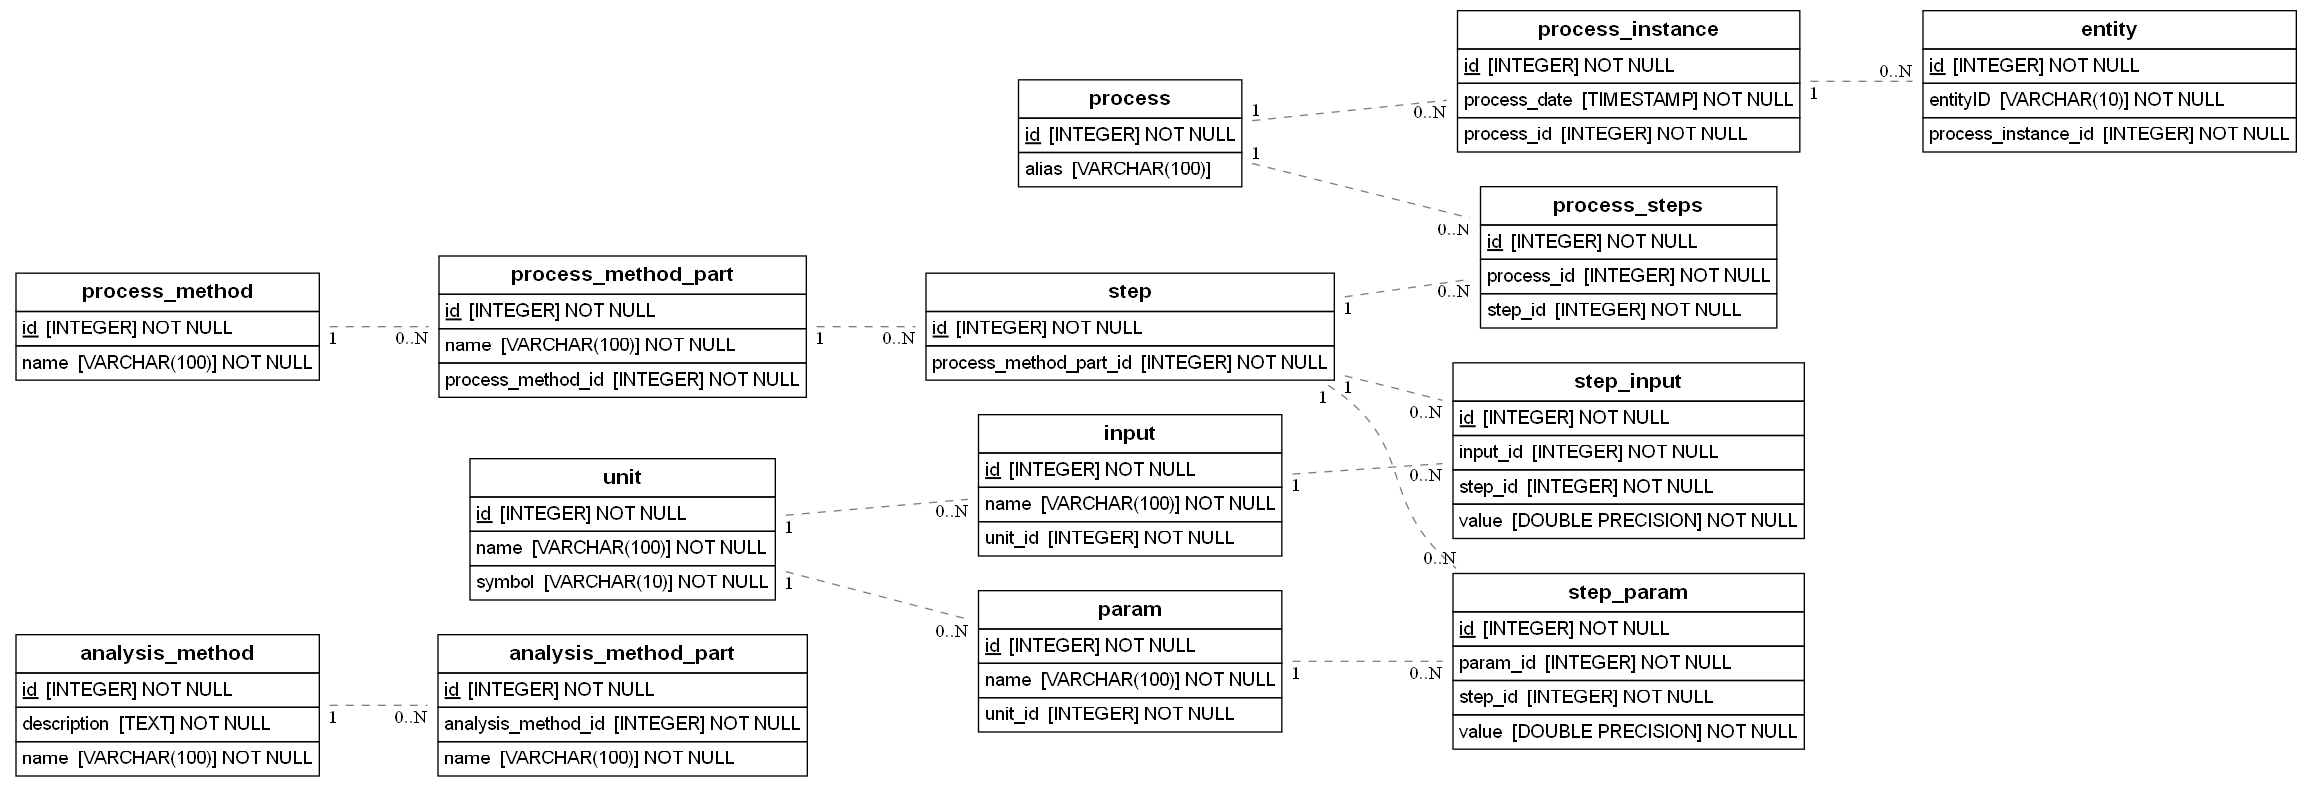
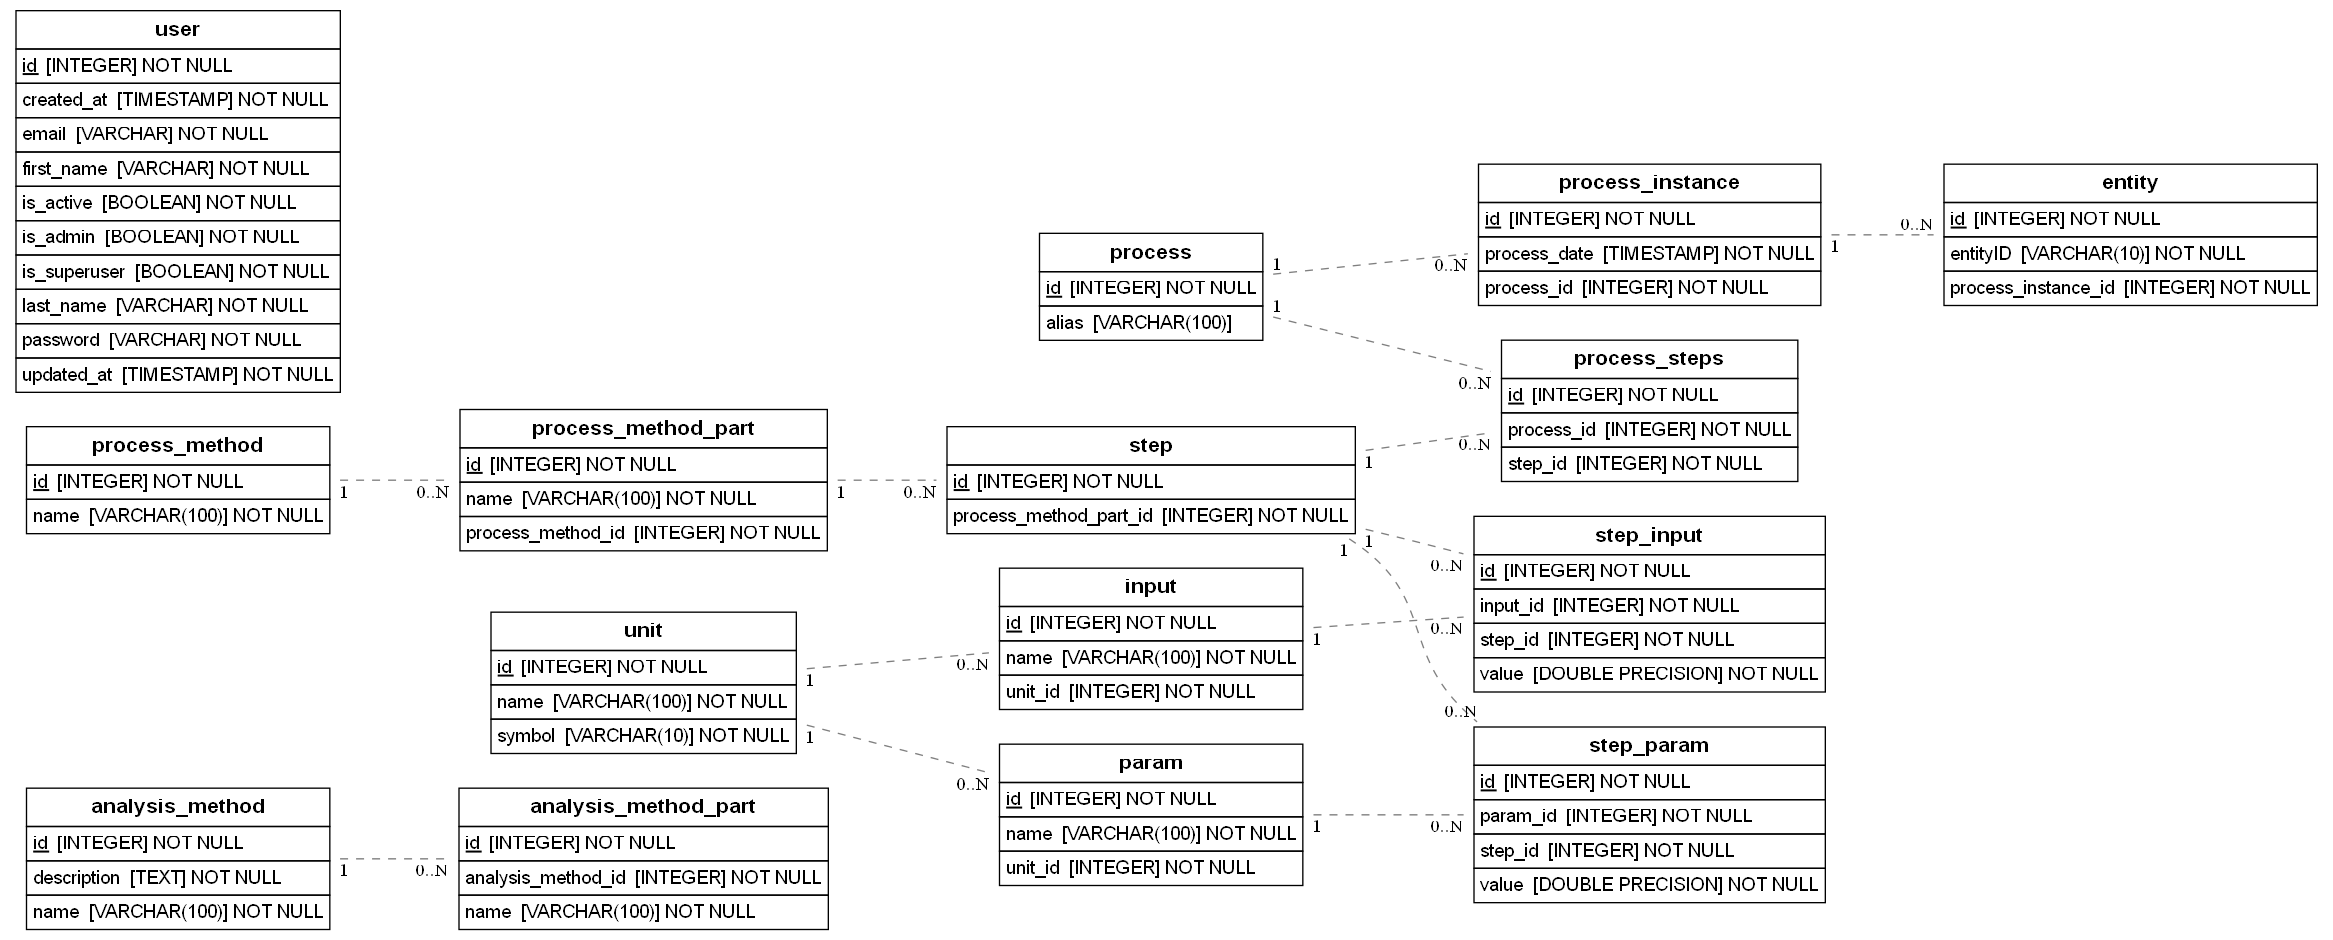
added User registration

diff --git a/process_navigator/static/styles.css b/process_navigator/static/styles.css
@@ -56,7 +56,7 @@ body {
   background-color: var(--ctp-mocha-base) !important;
   font-size: var(--font-size) !important;
   font-weight: var(--regular) !important;
-  color: var(--light) !important;
+  color: var(--ctp-mocha-text) !important;
   display: flex;
   flex-direction: column;
   height: 100vh;
@@ -90,7 +90,8 @@ nav a:hover {
   display: flex;
   flex-direction: row;
   justify-content: space-around;
-  height: 80%;
+
+
 
 }
 
@@ -101,19 +102,76 @@ nav a:hover {
   border-radius: 10px;
 
   /*form box*/
-  margin: 30px 60px 30px 60px;
+  margin: 30px 45px 30px 45px;
   padding: 20px;
   background-color: var(--ctp-mocha-crust);
   /*height: 80%;*/
-  width: 33%;
-
-
-  /*text stuff*/
 
 }
 
+
+
+form h1 {
+  color: var(--ctp-mocha-green);
+}
+
+fieldset {
+  display: flex;
+  flex-direction: row;
+  justify-content: space-evenly;
+  border: none;
+}
+
+fieldset label {
+  margin-right: 10px;
+  margin-left: 0px;
+}
+
+
+fieldset input {
+  margin-right: 10px;
+  margin-left: 10px;
+}
+
+
+
+fieldset #submit {
+  margin-top: 10px;
+  margin-bottom: 10px;
+}
+
+fieldset #submit:hover {
+  cursor: pointer;
+}
+
+.add_button {
+  color: var(--ctp-mocha-subtext1);
+  border-width: 8px;
+  border-radius: 10px;
+  border-color: var(--ctp-mocha-green);
+  background-color: var(--ctp-mocha-mantle);
+  padding: 5px 10px 5px 10px;
+
+  font-size: 20px;
+}
+
+.message-box {
+  border-radius: 10px;
+  border-style: solid;
+  background-color: var(--ctp-mocha-surface1);
+}
+
+.success-message {
+  margin: 10px;
+  color: var(--ctp-mocha-green);
+}
+
+.error-message {
+  margin: 10px;
+  color: var(--ctp-mocha-red);
+}
+
 .text_link {
-  color: var(--ctp-mocha-sky);
+  color: var(--ctp-mocha-blue);
   text-decoration: none;
-  font-size: var(--font-size);
 }

diff --git a/process_navigator/templates/home/register.html b/process_navigator/templates/home/register.html
@@ -1,0 +1,33 @@
+{% extends 'base/main.html' %}
+
+{% block form_1 %}
+<div class="form-container">
+<h1>Registration</h1>
+<p>
+  Welcome to the registration page. Please fill in the form to register for an account. This will use your email as a
+  unique identifier.
+</p>
+</div>
+{% endblock %}
+
+{% block form_2 %}
+<div class="form-container">
+<h1>Registration Form</h1>
+{% from "helpers/_formhelpers.html" import render_field %}
+{% from "helpers/_formhelpers.html" import render_form_button %}
+<form method="post">
+    {{ render_field(form.first_name)}}
+    {{ render_field(form.last_name)}}
+    {{ render_field(form.email) }}
+    {{ render_field(form.password) }}
+    {{ render_form_button(form.submit, class="add_button") }}  
+</form>
+</div>
+{% endblock %}
+
+{% block form_3 %}
+{% from "helpers/_messagehelpers.html" import display_messages %}
+{{ display_messages() }}
+{% endblock %}
+
+

diff --git a/process_navigator/templates/home/index.html b/process_navigator/templates/home/index.html
@@ -1,21 +1,27 @@
 {% extends 'base/main.html' %}
 
 {% block form_1 %}
+<div class="form-container">
 <h1>Process Navigator</h1>
 <p>
 Welcome to the Process Navigator! This is the landing page for adding, editing and extracting process information.
 
 
 </p>
+</div>
 {% endblock %}
 
 {% block form_2 %}
+<div class="form-container">
 <h1>Useful Links</h1>
 <p>Below are useful shortcuts to parts of the app</p>
 <p>The following link is for accessing the <a class = "text_link" href="{{ url_for('home.erdiagram') }}">er diagram</a> </p>
+</div>
 {% endblock %}
 
 {% block form_3 %}
+<div class="form-container">
 <h1>Contact</h1>
 <p>Contact us!</p>
+</div>
 {% endblock %}

diff --git a/process_navigator/templates/base/main.html b/process_navigator/templates/base/main.html
@@ -14,27 +14,14 @@
   {% include 'base/navbar.html' %}
 
   <section class="content">
-    <div class="form-container">
-      {% block form_1 %}
+    {% block form_1 %}
+    {% endblock %}
 
-      {% endblock %}
+    {% block form_2 %}
+    {% endblock %}
 
-    </div>
-    <div class="form-container">
-
-      {% block form_2 %}
-
-      {% endblock %}
-
-    </div>
-
-    <div class="form-container">
-
-      {% block form_3 %}
-
-      {% endblock %}
-    </div>
-
+    {% block form_3 %}
+    {% endblock %}
   </section>
 
 </body>

diff --git a/process_navigator/templates/helpers/_formhelpers.html b/process_navigator/templates/helpers/_formhelpers.html
@@ -1,0 +1,21 @@
+{% macro render_field(field) %}
+<fieldset>
+  {{ field.label }}
+  {{ field(**kwargs)|safe }}
+</fieldset>
+<dd>
+  {% if field.errors %}
+  <ul class=errors>
+    {% for error in field.errors %}
+    <li>{{ error }}</li>
+    {% endfor %}
+  </ul>
+  {% endif %}
+</dd>
+{% endmacro %}
+
+{% macro render_form_button(field) %}
+<fieldset>
+  {{ field(**kwargs)|safe }}
+</fieldset>
+{% endmacro %}

diff --git a/process_navigator/templates/helpers/_messagehelpers.html b/process_navigator/templates/helpers/_messagehelpers.html
@@ -1,0 +1,14 @@
+{% macro display_messages() %}
+{% with messages = get_flashed_messages(with_categories=true)%}
+{% if messages %}
+
+<div class="form-container">
+  {% for category,message in messages %}
+  <div class="message-box">
+    <p class="{{ category }}">{{ message }}</p>
+  </div>
+  {% endfor %}
+</div>
+{% endif %}
+{% endwith %}
+{% endmacro %}

diff --git a/process_navigator/home/routes.py b/process_navigator/home/routes.py
@@ -1,17 +1,68 @@
 import eralchemy2
 
 # import flask functionality
-from flask import current_app, render_template
+from flask import current_app, flash, render_template
 
-# get bp object and use as decorator
+from process_navigator.extensions import db
 from process_navigator.home import bp
+from process_navigator.models.admin import User
+from process_navigator.utils.decorators import session_keys
 
-# render_templates looks for templates in the templates folder
+from .forms import RegistrationForm
 
 
 @bp.route("/")
 def index():
     return render_template("home/index.html")
+
+
+# add registration route to add new user to User table
+@bp.route("/register", methods=["GET", "POST"])
+@session_keys()
+def register():
+    form = RegistrationForm()
+
+    if form.submit.data:
+        # first check if user email already exists
+        email_check = db.session.execute(
+            db.select(User).filter(User.email == form.email.data)
+        ).scalar()
+        # if email already exists, flash message and return to registration page
+        if email_check is not None:
+            flash(
+                "User with email {email} already exists.".format(email=form.email.data),
+                "error-message",
+            )
+            return render_template("home/register.html", form=form)
+
+        # if email does not exist, add user to the Database
+        new_user = User(
+            first_name=form.first_name.data,
+            last_name=form.last_name.data,
+            email=form.email.data,
+            password=form.password.data,
+        )
+        db.session.add(new_user)
+        db.session.commit()
+
+        # check if user was added to the Database
+        user_check = db.session.execute(
+            db.select(User).filter(User.email == form.email.data)
+        ).scalar()
+        if user_check is not None:
+            message = "User {first_name} {last_name} was registered successfully with email {email}.".format(
+                first_name=form.first_name.data,
+                last_name=form.last_name.data,
+                email=form.email.data,
+            )
+            flash(message, "success-message")
+        else:
+            message = "User {first_name} {last_name} was not registered.".format(
+                first_name=form.first_name.data, last_name=form.last_name.data
+            )
+            flash(message, "error-message")
+
+    return render_template("home/register.html", form=form)
 
 
 @bp.route("/erdiagram")

diff --git a/tests/home/test_home.py b/tests/home/test_home.py
@@ -1,3 +1,48 @@
+from process_navigator.extensions import db
+from process_navigator.models.admin import User
+
+
 def test_home_page(client):
     response = client.get("/")
     assert response.status_code == 200
+
+
+def test_register_page(client):
+    response = client.get("/register")
+    assert response.status_code == 200
+
+
+def test_registatrion_form_submit(client, test_app):
+    # check database is empty of users
+    with test_app.app_context():
+        query_result = db.session.execute(db.select(User)).all()
+        assert len(query_result) == 0
+
+    response = client.post(
+        "/register",
+        data={
+            "first_name": "john",
+            "last_name": "doe",
+            "email": "j.doe@astrea-bio.com",
+            "password": "password",
+            "submit": True,
+        },
+    )
+
+    assert response.status_code == 200
+
+    with test_app.app_context():
+        query_result = db.session.execute(
+            db.select(User).filter(User.email == "j.doe@astrea-bio.com")
+        ).scalar()
+        assert query_result is not None
+
+        # check user details
+        assert query_result.first_name == "john"
+        assert query_result.last_name == "doe"
+        assert query_result.password == "password"
+
+        # check default permissions
+        assert not query_result.is_admin
+        assert query_result.is_active
+        assert not query_result.is_superuser

diff --git a/process_navigator/utils/decorators.py b/process_navigator/utils/decorators.py
@@ -1,0 +1,22 @@
+from functools import wraps
+
+from flask import redirect, session, url_for
+
+
+def session_keys(required_keys=None):
+    def decorator_session_keys(func):
+        @wraps(func)
+        def decorated_function(*args, **kwargs):
+            if required_keys is None:
+                return func(*args, **kwargs)
+            for key, redirect_location in required_keys.items():
+                if (
+                    "security_keys" not in session
+                    or key not in session["security_keys"]
+                ):
+                    return redirect(url_for(redirect_location))
+                return func(*args, **kwargs)
+
+        return decorated_function
+
+    return decorator_session_keys

diff --git a/process_navigator/home/forms.py b/process_navigator/home/forms.py
@@ -1,0 +1,11 @@
+from flask_wtf import FlaskForm
+from wtforms import PasswordField, StringField, SubmitField
+from wtforms.validators import DataRequired, Email
+
+
+class RegistrationForm(FlaskForm):
+    first_name = StringField("First Name", validators=[DataRequired()])
+    last_name = StringField("Last Name", validators=[DataRequired()])
+    email = StringField("Email", validators=[DataRequired(), Email()])
+    password = PasswordField("Password", validators=[DataRequired()])
+    submit = SubmitField("Register")
